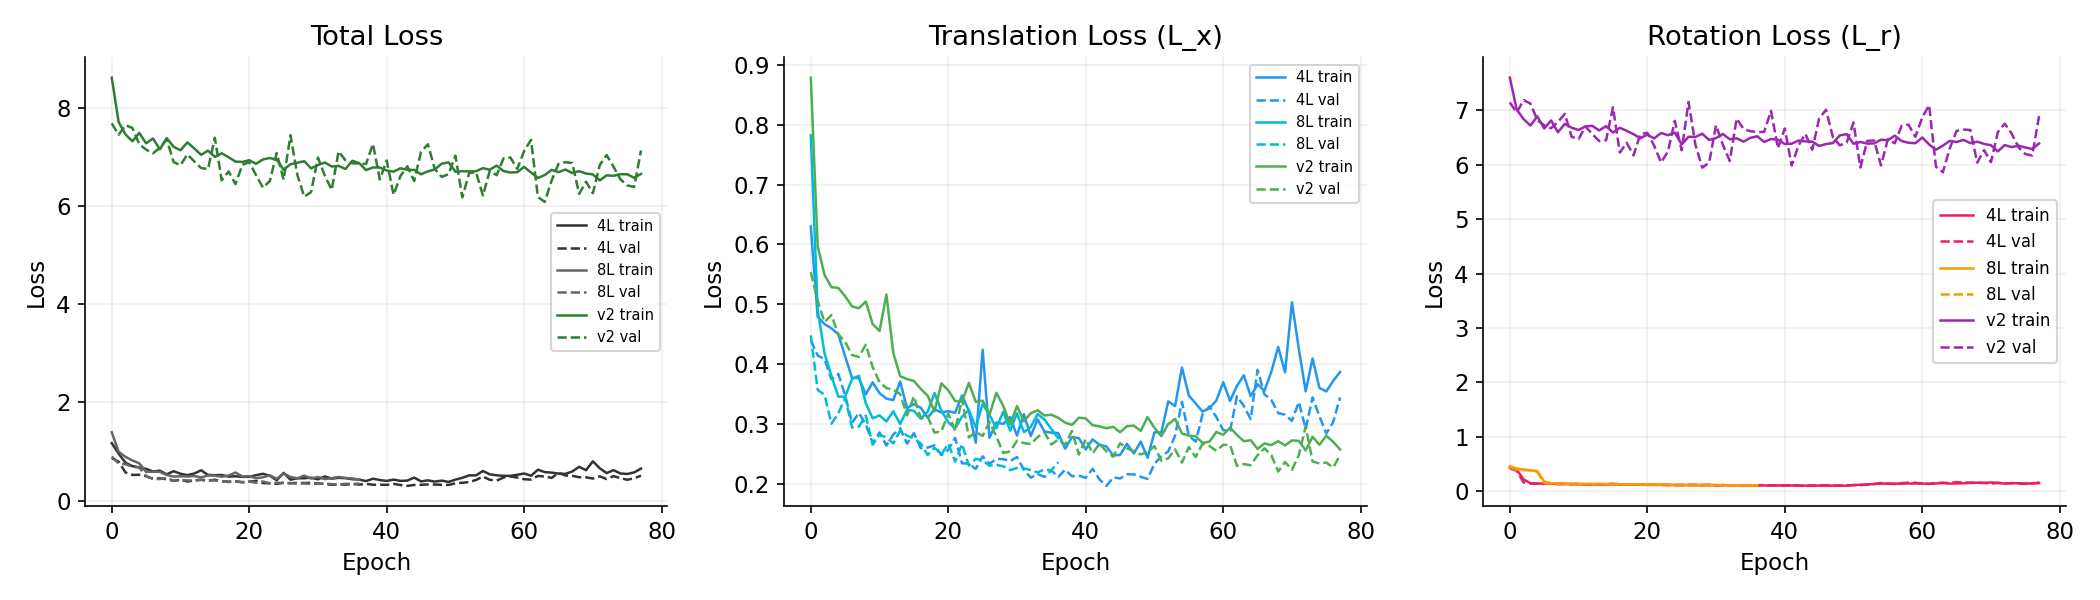
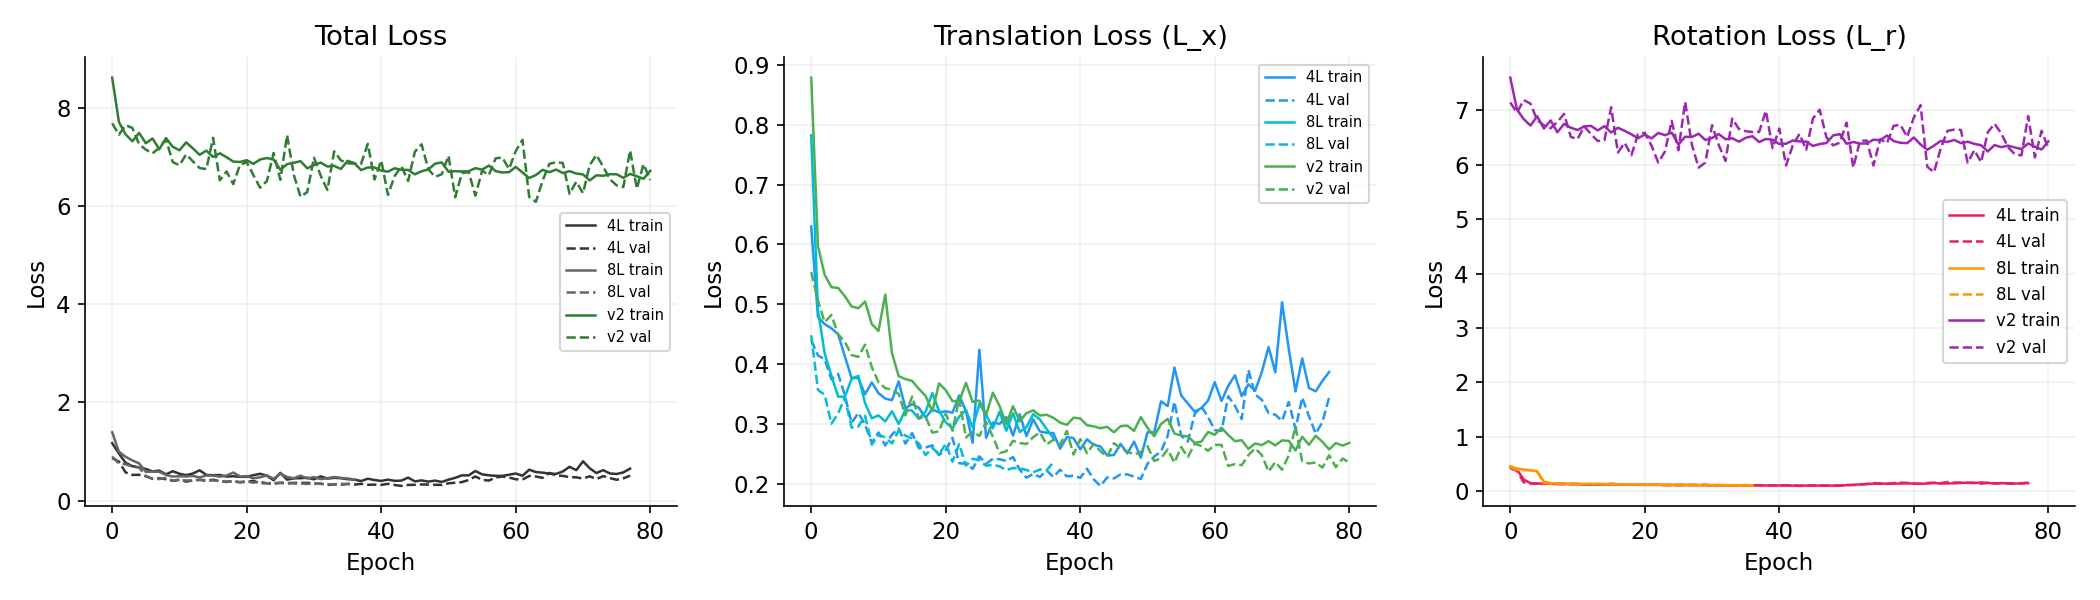
Update: v2 E80 RMSD=4.60 val best=6.36 (E78)

diff --git a/minifold.html b/minifold.html
@@ -239,7 +239,7 @@
         <p style="margin:0; font-size:13px; color:var(--text-secondary)">~14.4M params &middot; Wider MLPs throughout<br>
         IGSO3 rotation noise + score matching loss<br>
         Proper SO(3) reverse SDE for sampling<br>
-        Status: E77, RMSD=4.53-4.56, rot_err=46.1-46.4, val best=6.39 (E76), 2xA40</p>
+        Status: E80, RMSD=4.53-4.60, rot_err=46-47, val best=6.36 (E78), 2xA40</p>
       </div>
     </div>
 
